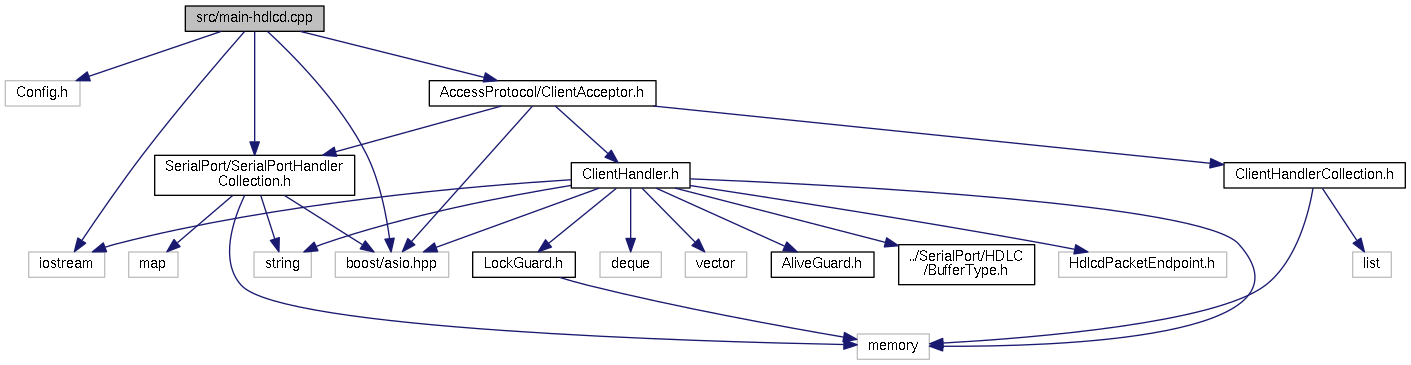
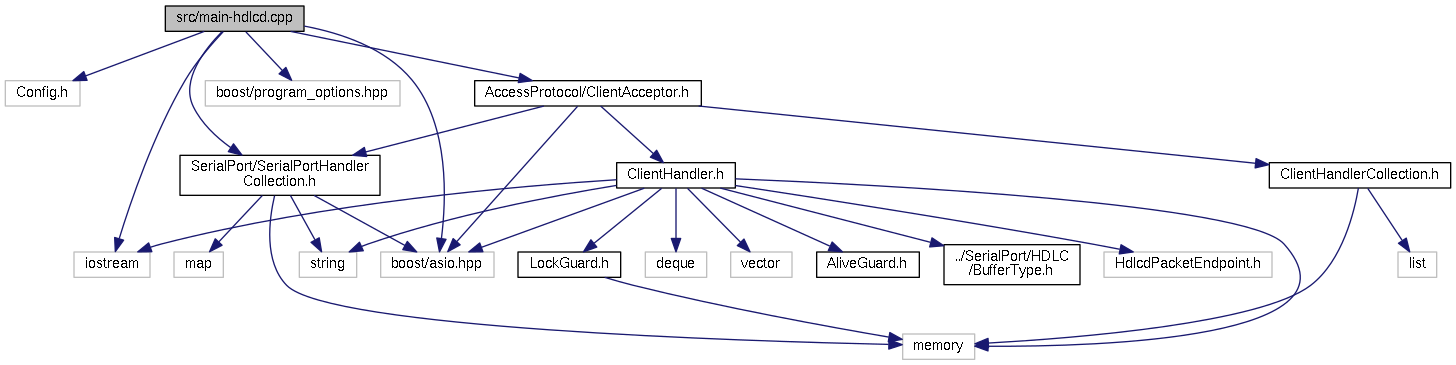
Updated doxygen output

diff --git a/main-hdlcd_8cpp_source.html b/main-hdlcd_8cpp_source.html
@@ -106,8 +106,8 @@ $(document).ready(function(){initNavTree('main-hdlcd_8cpp_source.html','');});
 <div class="title">main-hdlcd.cpp</div>  </div>
 </div><!--header-->
 <div class="contents">
-<a href="main-hdlcd_8cpp.html">Go to the documentation of this file.</a><div class="fragment"><div class="line"><a name="l00001"></a><span class="lineno">    1</span>&#160;</div><div class="line"><a name="l00022"></a><span class="lineno">   22</span>&#160;<span class="preprocessor">#include &quot;Config.h&quot;</span></div><div class="line"><a name="l00023"></a><span class="lineno">   23</span>&#160;<span class="preprocessor">#include &lt;iostream&gt;</span></div><div class="line"><a name="l00024"></a><span class="lineno">   24</span>&#160;<span class="preprocessor">#include &lt;boost/asio.hpp&gt;</span></div><div class="line"><a name="l00025"></a><span class="lineno">   25</span>&#160;<span class="preprocessor">#include &quot;<a class="code" href="SerialPortHandlerCollection_8h.html">SerialPort/SerialPortHandlerCollection.h</a>&quot;</span></div><div class="line"><a name="l00026"></a><span class="lineno">   26</span>&#160;<span class="preprocessor">#include &quot;<a class="code" href="ClientAcceptor_8h.html">AccessProtocol/ClientAcceptor.h</a>&quot;</span></div><div class="line"><a name="l00027"></a><span class="lineno">   27</span>&#160;</div><div class="line"><a name="l00028"></a><span class="lineno"><a class="line" href="main-hdlcd_8cpp.html#a3c04138a5bfe5d72780bb7e82a18e627">   28</a></span>&#160;<span class="keywordtype">int</span> <a class="code" href="main-hdlcd_8cpp.html#a3c04138a5bfe5d72780bb7e82a18e627">main</a>(<span class="keywordtype">int</span> argc, <span class="keywordtype">char</span> **argv) {</div><div class="line"><a name="l00029"></a><span class="lineno">   29</span>&#160;    std::cerr &lt;&lt; <span class="stringliteral">&quot;HDLC daemon v&quot;</span> &lt;&lt; HDLCD_VERSION_MAJOR &lt;&lt; <span class="stringliteral">&quot;.&quot;</span> &lt;&lt; HDLCD_VERSION_MINOR</div><div class="line"><a name="l00030"></a><span class="lineno">   30</span>&#160;              &lt;&lt; <span class="stringliteral">&quot; built with hdlcd-devel v&quot;</span> &lt;&lt; HDLCD_DEVEL_VERSION_MAJOR &lt;&lt; <span class="stringliteral">&quot;.&quot;</span> &lt;&lt; HDLCD_DEVEL_VERSION_MINOR &lt;&lt; std::endl;</div><div class="line"><a name="l00031"></a><span class="lineno">   31</span>&#160;    <span class="keywordflow">if</span> (argc != 2) {</div><div class="line"><a name="l00032"></a><span class="lineno">   32</span>&#160;        std::cerr &lt;&lt; <span class="stringliteral">&quot;Usage: hdlcd &lt;TCP port&gt;\n&quot;</span>;</div><div class="line"><a name="l00033"></a><span class="lineno">   33</span>&#160;        <span class="keywordflow">return</span> 1;</div><div class="line"><a name="l00034"></a><span class="lineno">   34</span>&#160;    } <span class="comment">// if</span></div><div class="line"><a name="l00035"></a><span class="lineno">   35</span>&#160;        </div><div class="line"><a name="l00036"></a><span class="lineno">   36</span>&#160;    boost::asio::io_service io_service;</div><div class="line"><a name="l00037"></a><span class="lineno">   37</span>&#160;    boost::asio::signal_set signals_(io_service);</div><div class="line"><a name="l00038"></a><span class="lineno">   38</span>&#160;    signals_.add(SIGINT);</div><div class="line"><a name="l00039"></a><span class="lineno">   39</span>&#160;    signals_.add(SIGTERM);</div><div class="line"><a name="l00040"></a><span class="lineno">   40</span>&#160;    signals_.async_wait([&amp;io_service](boost::system::error_code a_ErrorCode, <span class="keywordtype">int</span> a_SignalNumber){io_service.stop();});</div><div class="line"><a name="l00041"></a><span class="lineno">   41</span>&#160;    </div><div class="line"><a name="l00042"></a><span class="lineno">   42</span>&#160;    <span class="keyword">auto</span> l_SerialPortHandlerCollection = std::make_shared&lt;SerialPortHandlerCollection&gt;(io_service);</div><div class="line"><a name="l00043"></a><span class="lineno">   43</span>&#160;    <a class="code" href="classClientAcceptor.html">ClientAcceptor</a> l_ClientAcceptor(io_service, atoi(argv[1]), l_SerialPortHandlerCollection);</div><div class="line"><a name="l00044"></a><span class="lineno">   44</span>&#160;    io_service.run(); </div><div class="line"><a name="l00045"></a><span class="lineno">   45</span>&#160;    <span class="keywordflow">return</span> 0;</div><div class="line"><a name="l00046"></a><span class="lineno">   46</span>&#160;}</div><div class="ttc" id="SerialPortHandlerCollection_8h_html"><div class="ttname"><a href="SerialPortHandlerCollection_8h.html">SerialPortHandlerCollection.h</a></div><div class="ttdoc">The HDLC Deamon implements the HDLC protocol to easily talk to devices connected via serial communica...</div></div>
-<div class="ttc" id="main-hdlcd_8cpp_html_a3c04138a5bfe5d72780bb7e82a18e627"><div class="ttname"><a href="main-hdlcd_8cpp.html#a3c04138a5bfe5d72780bb7e82a18e627">main</a></div><div class="ttdeci">int main(int argc, char **argv)</div><div class="ttdef"><b>Definition:</b> <a href="main-hdlcd_8cpp_source.html#l00028">main-hdlcd.cpp:28</a></div></div>
+<a href="main-hdlcd_8cpp.html">Go to the documentation of this file.</a><div class="fragment"><div class="line"><a name="l00001"></a><span class="lineno">    1</span>&#160;</div><div class="line"><a name="l00022"></a><span class="lineno">   22</span>&#160;<span class="preprocessor">#include &quot;Config.h&quot;</span></div><div class="line"><a name="l00023"></a><span class="lineno">   23</span>&#160;<span class="preprocessor">#include &lt;iostream&gt;</span></div><div class="line"><a name="l00024"></a><span class="lineno">   24</span>&#160;<span class="preprocessor">#include &lt;boost/asio.hpp&gt;</span></div><div class="line"><a name="l00025"></a><span class="lineno">   25</span>&#160;<span class="preprocessor">#include &lt;boost/program_options.hpp&gt;</span></div><div class="line"><a name="l00026"></a><span class="lineno">   26</span>&#160;<span class="preprocessor">#include &quot;<a class="code" href="SerialPortHandlerCollection_8h.html">SerialPort/SerialPortHandlerCollection.h</a>&quot;</span></div><div class="line"><a name="l00027"></a><span class="lineno">   27</span>&#160;<span class="preprocessor">#include &quot;<a class="code" href="ClientAcceptor_8h.html">AccessProtocol/ClientAcceptor.h</a>&quot;</span></div><div class="line"><a name="l00028"></a><span class="lineno">   28</span>&#160;</div><div class="line"><a name="l00029"></a><span class="lineno"><a class="line" href="main-hdlcd_8cpp.html#a3c04138a5bfe5d72780bb7e82a18e627">   29</a></span>&#160;<span class="keywordtype">int</span> <a class="code" href="main-hdlcd_8cpp.html#a3c04138a5bfe5d72780bb7e82a18e627">main</a>(<span class="keywordtype">int</span> argc, <span class="keywordtype">char</span> **argv) {</div><div class="line"><a name="l00030"></a><span class="lineno">   30</span>&#160;    <span class="keywordflow">try</span> {</div><div class="line"><a name="l00031"></a><span class="lineno">   31</span>&#160;        <span class="comment">// Declare the supported options.</span></div><div class="line"><a name="l00032"></a><span class="lineno">   32</span>&#160;        boost::program_options::options_description l_Description(<span class="stringliteral">&quot;Allowed options&quot;</span>);</div><div class="line"><a name="l00033"></a><span class="lineno">   33</span>&#160;        l_Description.add_options()</div><div class="line"><a name="l00034"></a><span class="lineno">   34</span>&#160;            (<span class="stringliteral">&quot;help,h&quot;</span>,    <span class="stringliteral">&quot;produce this help message&quot;</span>)</div><div class="line"><a name="l00035"></a><span class="lineno">   35</span>&#160;            (<span class="stringliteral">&quot;version,v&quot;</span>, <span class="stringliteral">&quot;show version information&quot;</span>)</div><div class="line"><a name="l00036"></a><span class="lineno">   36</span>&#160;            (<span class="stringliteral">&quot;port,p&quot;</span>,    boost::program_options::value&lt;uint16_t&gt;(),</div><div class="line"><a name="l00037"></a><span class="lineno">   37</span>&#160;                          <span class="stringliteral">&quot;the TCP port to accept clients on&quot;</span>)</div><div class="line"><a name="l00038"></a><span class="lineno">   38</span>&#160;        ;</div><div class="line"><a name="l00039"></a><span class="lineno">   39</span>&#160;</div><div class="line"><a name="l00040"></a><span class="lineno">   40</span>&#160;        <span class="comment">// Parse the command line</span></div><div class="line"><a name="l00041"></a><span class="lineno">   41</span>&#160;        boost::program_options::variables_map l_VariablesMap;</div><div class="line"><a name="l00042"></a><span class="lineno">   42</span>&#160;        boost::program_options::store(boost::program_options::parse_command_line(argc, argv, l_Description), l_VariablesMap);</div><div class="line"><a name="l00043"></a><span class="lineno">   43</span>&#160;        boost::program_options::notify(l_VariablesMap);</div><div class="line"><a name="l00044"></a><span class="lineno">   44</span>&#160;        <span class="keywordflow">if</span> (l_VariablesMap.count(<span class="stringliteral">&quot;version&quot;</span>)) {</div><div class="line"><a name="l00045"></a><span class="lineno">   45</span>&#160;            std::cerr &lt;&lt; <span class="stringliteral">&quot;HDLC daemon version &quot;</span> &lt;&lt; HDLCD_VERSION_MAJOR &lt;&lt; <span class="stringliteral">&quot;.&quot;</span> &lt;&lt; HDLCD_VERSION_MINOR</div><div class="line"><a name="l00046"></a><span class="lineno">   46</span>&#160;                      &lt;&lt; <span class="stringliteral">&quot; built with hdlcd-devel version &quot;</span> &lt;&lt; HDLCD_DEVEL_VERSION_MAJOR &lt;&lt; <span class="stringliteral">&quot;.&quot;</span> &lt;&lt; HDLCD_DEVEL_VERSION_MINOR &lt;&lt; std::endl;</div><div class="line"><a name="l00047"></a><span class="lineno">   47</span>&#160;        } <span class="comment">// if</span></div><div class="line"><a name="l00048"></a><span class="lineno">   48</span>&#160;</div><div class="line"><a name="l00049"></a><span class="lineno">   49</span>&#160;        <span class="keywordflow">if</span> (l_VariablesMap.count(<span class="stringliteral">&quot;help&quot;</span>)) {</div><div class="line"><a name="l00050"></a><span class="lineno">   50</span>&#160;            std::cout &lt;&lt; l_Description &lt;&lt; std::endl;</div><div class="line"><a name="l00051"></a><span class="lineno">   51</span>&#160;            <span class="keywordflow">return</span> 1;</div><div class="line"><a name="l00052"></a><span class="lineno">   52</span>&#160;        } <span class="comment">// if</span></div><div class="line"><a name="l00053"></a><span class="lineno">   53</span>&#160;                        </div><div class="line"><a name="l00054"></a><span class="lineno">   54</span>&#160;        <span class="keywordflow">if</span> (!l_VariablesMap.count(<span class="stringliteral">&quot;port&quot;</span>)) {</div><div class="line"><a name="l00055"></a><span class="lineno">   55</span>&#160;            std::cout &lt;&lt; <span class="stringliteral">&quot;you have to specify the TCP listener port&quot;</span> &lt;&lt; std::endl;</div><div class="line"><a name="l00056"></a><span class="lineno">   56</span>&#160;            <span class="keywordflow">return</span> 1;</div><div class="line"><a name="l00057"></a><span class="lineno">   57</span>&#160;        } <span class="comment">// if</span></div><div class="line"><a name="l00058"></a><span class="lineno">   58</span>&#160;</div><div class="line"><a name="l00059"></a><span class="lineno">   59</span>&#160;        <span class="comment">// Install signal handlers</span></div><div class="line"><a name="l00060"></a><span class="lineno">   60</span>&#160;        boost::asio::io_service l_IoService;</div><div class="line"><a name="l00061"></a><span class="lineno">   61</span>&#160;        boost::asio::signal_set l_Signals(l_IoService);</div><div class="line"><a name="l00062"></a><span class="lineno">   62</span>&#160;        l_Signals.add(SIGINT);</div><div class="line"><a name="l00063"></a><span class="lineno">   63</span>&#160;        l_Signals.add(SIGTERM);</div><div class="line"><a name="l00064"></a><span class="lineno">   64</span>&#160;        l_Signals.async_wait([&amp;l_IoService](boost::system::error_code, <span class="keywordtype">int</span>){ l_IoService.stop(); });</div><div class="line"><a name="l00065"></a><span class="lineno">   65</span>&#160;        </div><div class="line"><a name="l00066"></a><span class="lineno">   66</span>&#160;        <span class="comment">// Create the HDLCd entity</span></div><div class="line"><a name="l00067"></a><span class="lineno">   67</span>&#160;        <span class="keyword">auto</span> l_SerialPortHandlerCollection = std::make_shared&lt;SerialPortHandlerCollection&gt;(l_IoService);</div><div class="line"><a name="l00068"></a><span class="lineno">   68</span>&#160;        <a class="code" href="classClientAcceptor.html">ClientAcceptor</a> l_ClientAcceptor(l_IoService, l_VariablesMap[<span class="stringliteral">&quot;port&quot;</span>].as&lt;uint16_t&gt;(), l_SerialPortHandlerCollection);</div><div class="line"><a name="l00069"></a><span class="lineno">   69</span>&#160;        </div><div class="line"><a name="l00070"></a><span class="lineno">   70</span>&#160;        <span class="comment">// Start event processing</span></div><div class="line"><a name="l00071"></a><span class="lineno">   71</span>&#160;        l_IoService.run();</div><div class="line"><a name="l00072"></a><span class="lineno">   72</span>&#160;    } <span class="keywordflow">catch</span> (std::exception&amp; a_Error) {</div><div class="line"><a name="l00073"></a><span class="lineno">   73</span>&#160;        std::cerr &lt;&lt; <span class="stringliteral">&quot;Exception: &quot;</span> &lt;&lt; a_Error.what() &lt;&lt; <span class="stringliteral">&quot;\n&quot;</span>;</div><div class="line"><a name="l00074"></a><span class="lineno">   74</span>&#160;        <span class="keywordflow">return</span> 1;</div><div class="line"><a name="l00075"></a><span class="lineno">   75</span>&#160;    } <span class="comment">// catch</span></div><div class="line"><a name="l00076"></a><span class="lineno">   76</span>&#160;    </div><div class="line"><a name="l00077"></a><span class="lineno">   77</span>&#160;    <span class="keywordflow">return</span> 0;</div><div class="line"><a name="l00078"></a><span class="lineno">   78</span>&#160;}</div><div class="ttc" id="SerialPortHandlerCollection_8h_html"><div class="ttname"><a href="SerialPortHandlerCollection_8h.html">SerialPortHandlerCollection.h</a></div><div class="ttdoc">The HDLC Deamon implements the HDLC protocol to easily talk to devices connected via serial communica...</div></div>
+<div class="ttc" id="main-hdlcd_8cpp_html_a3c04138a5bfe5d72780bb7e82a18e627"><div class="ttname"><a href="main-hdlcd_8cpp.html#a3c04138a5bfe5d72780bb7e82a18e627">main</a></div><div class="ttdeci">int main(int argc, char **argv)</div><div class="ttdef"><b>Definition:</b> <a href="main-hdlcd_8cpp_source.html#l00029">main-hdlcd.cpp:29</a></div></div>
 <div class="ttc" id="ClientAcceptor_8h_html"><div class="ttname"><a href="ClientAcceptor_8h.html">ClientAcceptor.h</a></div><div class="ttdoc">This file contains the header declaration of class ClientAcceptor. </div></div>
 <div class="ttc" id="classClientAcceptor_html"><div class="ttname"><a href="classClientAcceptor.html">ClientAcceptor</a></div><div class="ttdoc">Class ClientAcceptor. </div><div class="ttdef"><b>Definition:</b> <a href="ClientAcceptor_8h_source.html#l00041">ClientAcceptor.h:41</a></div></div>
 </div><!-- fragment --></div><!-- contents -->

diff --git a/main-hdlcd_8cpp.html b/main-hdlcd_8cpp.html
@@ -108,9 +108,13 @@ $(document).ready(function(){initNavTree('main-hdlcd_8cpp.html','');});
 <div class="title">main-hdlcd.cpp File Reference</div>  </div>
 </div><!--header-->
 <div class="contents">
+
+<p>The hdlc-tools implement the HDLC protocol to easily talk to devices connected via serial communications Copyright (C) 2016 Florian Evers, <a href="#" onclick="location.href='mai'+'lto:'+'flo'+'ri'+'an-'+'ev'+'ers'+'@g'+'mx.'+'de'; return false;">flori<span style="display: none;">.nosp@m.</span>an-e<span style="display: none;">.nosp@m.</span>vers@<span style="display: none;">.nosp@m.</span>gmx.<span style="display: none;">.nosp@m.</span>de</a>.  
+<a href="#details">More...</a></p>
 <div class="textblock"><code>#include &quot;Config.h&quot;</code><br />
 <code>#include &lt;iostream&gt;</code><br />
 <code>#include &lt;boost/asio.hpp&gt;</code><br />
+<code>#include &lt;boost/program_options.hpp&gt;</code><br />
 <code>#include &quot;<a class="el" href="SerialPortHandlerCollection_8h_source.html">SerialPort/SerialPortHandlerCollection.h</a>&quot;</code><br />
 <code>#include &quot;<a class="el" href="ClientAcceptor_8h_source.html">AccessProtocol/ClientAcceptor.h</a>&quot;</code><br />
 </div><div class="textblock"><div class="dynheader">
@@ -118,13 +122,13 @@ Include dependency graph for main-hdlcd.cpp:</div>
 <div class="dyncontent">
 <div class="center"><img src="main-hdlcd_8cpp__incl.png" border="0" usemap="#src_2main-hdlcd_8cpp" alt=""/></div>
 <map name="src_2main-hdlcd_8cpp" id="src_2main-hdlcd_8cpp">
-<area shape="rect" id="node5" href="SerialPortHandlerCollection_8h.html" title="The HDLC Deamon implements the HDLC protocol to easily talk to devices connected via serial communica..." alt="" coords="155,155,355,196"/>
-<area shape="rect" id="node9" href="ClientAcceptor_8h.html" title="This file contains the header declaration of class ClientAcceptor. " alt="" coords="429,80,656,107"/>
-<area shape="rect" id="node10" href="ClientHandler_8h.html" title="The HDLC Deamon implements the HDLC protocol to easily talk to devices connected via serial communica..." alt="" coords="571,162,690,189"/>
-<area shape="rect" id="node17" href="ClientHandlerCollection_8h.html" title="The HDLC Deamon implements the HDLC protocol to easily talk to devices connected via serial communica..." alt="" coords="1224,162,1405,189"/>
-<area shape="rect" id="node13" href="AliveGuard_8h.html" title="This file contains the header declaration of class AliveGuard. " alt="" coords="771,251,874,278"/>
-<area shape="rect" id="node14" href="LockGuard_8h.html" title="This file contains the header declaration of class LockGuard. " alt="" coords="473,251,575,278"/>
-<area shape="rect" id="node15" href="BufferType_8h.html" title="Copyright (c) 2016, Florian Evers, florian&#45;evers@gmx.de All rights reserved. " alt="" coords="899,244,1035,285"/>
+<area shape="rect" id="node6" href="SerialPortHandlerCollection_8h.html" title="The HDLC Deamon implements the HDLC protocol to easily talk to devices connected via serial communica..." alt="" coords="180,155,380,196"/>
+<area shape="rect" id="node10" href="ClientAcceptor_8h.html" title="This file contains the header declaration of class ClientAcceptor. " alt="" coords="475,80,701,107"/>
+<area shape="rect" id="node11" href="ClientHandler_8h.html" title="The HDLC Deamon implements the HDLC protocol to easily talk to devices connected via serial communica..." alt="" coords="617,162,735,189"/>
+<area shape="rect" id="node18" href="ClientHandlerCollection_8h.html" title="The HDLC Deamon implements the HDLC protocol to easily talk to devices connected via serial communica..." alt="" coords="1269,162,1451,189"/>
+<area shape="rect" id="node14" href="AliveGuard_8h.html" title="This file contains the header declaration of class AliveGuard. " alt="" coords="817,251,919,278"/>
+<area shape="rect" id="node15" href="LockGuard_8h.html" title="This file contains the header declaration of class LockGuard. " alt="" coords="518,251,621,278"/>
+<area shape="rect" id="node16" href="BufferType_8h.html" title="Copyright (c) 2016, Florian Evers, florian&#45;evers@gmx.de All rights reserved. " alt="" coords="944,244,1080,285"/>
 </map>
 </div>
 </div>
@@ -135,7 +139,14 @@ Functions</h2></td></tr>
 <tr class="memitem:a3c04138a5bfe5d72780bb7e82a18e627"><td class="memItemLeft" align="right" valign="top">int&#160;</td><td class="memItemRight" valign="bottom"><a class="el" href="main-hdlcd_8cpp.html#a3c04138a5bfe5d72780bb7e82a18e627">main</a> (int argc, char **argv)</td></tr>
 <tr class="separator:a3c04138a5bfe5d72780bb7e82a18e627"><td class="memSeparator" colspan="2">&#160;</td></tr>
 </table>
-<h2 class="groupheader">Function Documentation</h2>
+<a name="details" id="details"></a><h2 class="groupheader">Detailed Description</h2>
+<div class="textblock"><p>The hdlc-tools implement the HDLC protocol to easily talk to devices connected via serial communications Copyright (C) 2016 Florian Evers, <a href="#" onclick="location.href='mai'+'lto:'+'flo'+'ri'+'an-'+'ev'+'ers'+'@g'+'mx.'+'de'; return false;">flori<span style="display: none;">.nosp@m.</span>an-e<span style="display: none;">.nosp@m.</span>vers@<span style="display: none;">.nosp@m.</span>gmx.<span style="display: none;">.nosp@m.</span>de</a>. </p>
+<p>This program is free software: you can redistribute it and/or modify it under the terms of the GNU General Public License as published by the Free Software Foundation, either version 3 of the License, or (at your option) any later version.</p>
+<p>This program is distributed in the hope that it will be useful, but WITHOUT ANY WARRANTY; without even the implied warranty of MERCHANTABILITY or FITNESS FOR A PARTICULAR PURPOSE. See the GNU General Public License for more details.</p>
+<p>You should have received a copy of the GNU General Public License along with this program. If not, see <a href="http://www.gnu.org/licenses/">http://www.gnu.org/licenses/</a>. </p>
+
+<p>Definition in file <a class="el" href="main-hdlcd_8cpp_source.html">main-hdlcd.cpp</a>.</p>
+</div><h2 class="groupheader">Function Documentation</h2>
 <a class="anchor" id="a3c04138a5bfe5d72780bb7e82a18e627"></a>
 <div class="memitem">
 <div class="memproto">
@@ -160,7 +171,7 @@ Functions</h2></td></tr>
       </table>
 </div><div class="memdoc">
 
-<p>Definition at line <a class="el" href="main-hdlcd_8cpp_source.html#l00028">28</a> of file <a class="el" href="main-hdlcd_8cpp_source.html">main-hdlcd.cpp</a>.</p>
+<p>Definition at line <a class="el" href="main-hdlcd_8cpp_source.html#l00029">29</a> of file <a class="el" href="main-hdlcd_8cpp_source.html">main-hdlcd.cpp</a>.</p>
 
 </div>
 </div>

diff --git a/CMakeLists_8txt.html b/CMakeLists_8txt.html
@@ -111,9 +111,9 @@ $(document).ready(function(){initNavTree('CMakeLists_8txt.html','');});
 <table class="memberdecls">
 <tr class="heading"><td colspan="2"><h2 class="groupheader"><a name="func-members"></a>
 Functions</h2></td></tr>
-<tr class="memitem:aaac8fe0ae3468421595cef16d502c6fb"><td class="memItemLeft" align="right" valign="top">&#160;</td><td class="memItemRight" valign="bottom"><a class="el" href="CMakeLists_8txt.html#aaac8fe0ae3468421595cef16d502c6fb">set</a> (Boost_USE_STATIC_LIBS OFF) set(Boost_USE_MULTITHREADED ON) set(Boost_USE_STATIC_RUNTIME OFF) find_package(Boost REQUIRED COMPONENTS system signals) <a class="el" href="CMakeLists_8txt.html#a3b8528942589ad9f54e396a5752038cf">include_directories</a>($</td></tr>
-<tr class="separator:aaac8fe0ae3468421595cef16d502c6fb"><td class="memSeparator" colspan="2">&#160;</td></tr>
-<tr class="memitem:a3b8528942589ad9f54e396a5752038cf"><td class="memItemLeft" align="right" valign="top">&#160;</td><td class="memItemRight" valign="bottom"><a class="el" href="CMakeLists_8txt.html#a3b8528942589ad9f54e396a5752038cf">include_directories</a> (&quot;${PROJECT_SOURCE_DIR}/src/include&quot;) find_package(Threads) add_executable(hdlcd <a class="el" href="main-hdlcd_8cpp.html#a3c04138a5bfe5d72780bb7e82a18e627">main</a>-hdlcd.cpp AccessProtocol/ClientHandler.cpp AccessProtocol/ClientHandlerCollection.cpp AccessProtocol/LockGuard.cpp SerialPort/HDLC/AliveState.cpp SerialPort/HDLC/FCS16.cpp SerialPort/HDLC/Frame.cpp SerialPort/HDLC/FrameGenerator.cpp SerialPort/HDLC/FrameParser.cpp SerialPort/HDLC/ProtocolState.cpp SerialPort/SerialPortLock.cpp SerialPort/SerialPortHandler.cpp SerialPort/SerialPortHandlerCollection.cpp) if(WIN32) <a class="el" href="CMakeLists_8txt.html#aaac8fe0ae3468421595cef16d502c6fb">set</a>(ADDITIONAL_LIBRARIES wsock32 ws2_32) else() <a class="el" href="CMakeLists_8txt.html#aaac8fe0ae3468421595cef16d502c6fb">set</a>(ADDITIONAL_LIBRARIES&quot;&quot;) endif() target_link_libraries(hdlcd $</td></tr>
+<tr class="memitem:a8b4c72bb7a5537f2af053210af0557f2"><td class="memItemLeft" align="right" valign="top">&#160;</td><td class="memItemRight" valign="bottom"><a class="el" href="CMakeLists_8txt.html#a8b4c72bb7a5537f2af053210af0557f2">set</a> (Boost_USE_STATIC_LIBS OFF) set(Boost_USE_MULTITHREADED ON) set(Boost_USE_STATIC_RUNTIME OFF) find_package(Boost REQUIRED COMPONENTS system signals program_options) <a class="el" href="CMakeLists_8txt.html#a3b8528942589ad9f54e396a5752038cf">include_directories</a>($</td></tr>
+<tr class="separator:a8b4c72bb7a5537f2af053210af0557f2"><td class="memSeparator" colspan="2">&#160;</td></tr>
+<tr class="memitem:a3b8528942589ad9f54e396a5752038cf"><td class="memItemLeft" align="right" valign="top">&#160;</td><td class="memItemRight" valign="bottom"><a class="el" href="CMakeLists_8txt.html#a3b8528942589ad9f54e396a5752038cf">include_directories</a> (&quot;${PROJECT_SOURCE_DIR}/src/include&quot;) find_package(Threads) add_executable(hdlcd <a class="el" href="main-hdlcd_8cpp.html#a3c04138a5bfe5d72780bb7e82a18e627">main</a>-hdlcd.cpp AccessProtocol/ClientHandler.cpp AccessProtocol/ClientHandlerCollection.cpp AccessProtocol/LockGuard.cpp SerialPort/HDLC/AliveState.cpp SerialPort/HDLC/FCS16.cpp SerialPort/HDLC/Frame.cpp SerialPort/HDLC/FrameGenerator.cpp SerialPort/HDLC/FrameParser.cpp SerialPort/HDLC/ProtocolState.cpp SerialPort/SerialPortLock.cpp SerialPort/SerialPortHandler.cpp SerialPort/SerialPortHandlerCollection.cpp) if(WIN32) <a class="el" href="CMakeLists_8txt.html#a8b4c72bb7a5537f2af053210af0557f2">set</a>(ADDITIONAL_LIBRARIES wsock32 ws2_32) else() <a class="el" href="CMakeLists_8txt.html#a8b4c72bb7a5537f2af053210af0557f2">set</a>(ADDITIONAL_LIBRARIES&quot;&quot;) endif() target_link_libraries(hdlcd $</td></tr>
 <tr class="separator:a3b8528942589ad9f54e396a5752038cf"><td class="memSeparator" colspan="2">&#160;</td></tr>
 </table>
 <h2 class="groupheader">Function Documentation</h2>
@@ -135,7 +135,7 @@ Functions</h2></td></tr>
 
 </div>
 </div>
-<a class="anchor" id="aaac8fe0ae3468421595cef16d502c6fb"></a>
+<a class="anchor" id="a8b4c72bb7a5537f2af053210af0557f2"></a>
 <div class="memitem">
 <div class="memproto">
       <table class="memname">

diff --git a/files.html b/files.html
@@ -141,7 +141,7 @@ $(document).ready(function(){initNavTree('files.html','');});
 <tr id="row_0_1_5_" class="even"><td class="entry"><span style="width:48px;display:inline-block;">&#160;</span><a href="SerialPortHandlerCollection_8h_source.html"><span class="icondoc"></span></a><a class="el" href="SerialPortHandlerCollection_8h.html" target="_self">SerialPortHandlerCollection.h</a></td><td class="desc">The HDLC Deamon implements the HDLC protocol to easily talk to devices connected via serial communications. Copyright (C) 2016 Florian Evers, <a href="#" onclick="location.href='mai'+'lto:'+'flo'+'ri'+'an-'+'ev'+'ers'+'@g'+'mx.'+'de'; return false;">flori<span style="display: none;">.nosp@m.</span>an-e<span style="display: none;">.nosp@m.</span>vers@<span style="display: none;">.nosp@m.</span>gmx.<span style="display: none;">.nosp@m.</span>de</a> </td></tr>
 <tr id="row_0_1_6_"><td class="entry"><span style="width:48px;display:inline-block;">&#160;</span><a href="SerialPortLock_8cpp_source.html"><span class="icondoc"></span></a><a class="el" href="SerialPortLock_8cpp.html" target="_self">SerialPortLock.cpp</a></td><td class="desc">The hdlc-tools implement the HDLC protocol to easily talk to devices connected via serial communications Copyright (C) 2016 Florian Evers, <a href="#" onclick="location.href='mai'+'lto:'+'flo'+'ri'+'an-'+'ev'+'ers'+'@g'+'mx.'+'de'; return false;">flori<span style="display: none;">.nosp@m.</span>an-e<span style="display: none;">.nosp@m.</span>vers@<span style="display: none;">.nosp@m.</span>gmx.<span style="display: none;">.nosp@m.</span>de</a> </td></tr>
 <tr id="row_0_1_7_" class="even"><td class="entry"><span style="width:48px;display:inline-block;">&#160;</span><a href="SerialPortLock_8h_source.html"><span class="icondoc"></span></a><a class="el" href="SerialPortLock_8h.html" target="_self">SerialPortLock.h</a></td><td class="desc">The HDLC Deamon implements the HDLC protocol to easily talk to devices connected via serial communications. Copyright (C) 2016 Florian Evers, <a href="#" onclick="location.href='mai'+'lto:'+'flo'+'ri'+'an-'+'ev'+'ers'+'@g'+'mx.'+'de'; return false;">flori<span style="display: none;">.nosp@m.</span>an-e<span style="display: none;">.nosp@m.</span>vers@<span style="display: none;">.nosp@m.</span>gmx.<span style="display: none;">.nosp@m.</span>de</a> </td></tr>
-<tr id="row_0_2_"><td class="entry"><span style="width:32px;display:inline-block;">&#160;</span><a href="main-hdlcd_8cpp_source.html"><span class="icondoc"></span></a><a class="el" href="main-hdlcd_8cpp.html" target="_self">main-hdlcd.cpp</a></td><td class="desc"></td></tr>
+<tr id="row_0_2_"><td class="entry"><span style="width:32px;display:inline-block;">&#160;</span><a href="main-hdlcd_8cpp_source.html"><span class="icondoc"></span></a><a class="el" href="main-hdlcd_8cpp.html" target="_self">main-hdlcd.cpp</a></td><td class="desc">The hdlc-tools implement the HDLC protocol to easily talk to devices connected via serial communications Copyright (C) 2016 Florian Evers, <a href="#" onclick="location.href='mai'+'lto:'+'flo'+'ri'+'an-'+'ev'+'ers'+'@g'+'mx.'+'de'; return false;">flori<span style="display: none;">.nosp@m.</span>an-e<span style="display: none;">.nosp@m.</span>vers@<span style="display: none;">.nosp@m.</span>gmx.<span style="display: none;">.nosp@m.</span>de</a> </td></tr>
 </table>
 </div><!-- directory -->
 </div><!-- contents -->

diff --git a/SerialPortHandlerCollection_8h.html b/SerialPortHandlerCollection_8h.html
@@ -119,8 +119,6 @@ $(document).ready(function(){initNavTree('SerialPortHandlerCollection_8h.html','
 Include dependency graph for SerialPortHandlerCollection.h:</div>
 <div class="dyncontent">
 <div class="center"><img src="SerialPortHandlerCollection_8h__incl.png" border="0" usemap="#src_2SerialPort_2SerialPortHandlerCollection_8h" alt=""/></div>
-<map name="src_2SerialPort_2SerialPortHandlerCollection_8h" id="src_2SerialPort_2SerialPortHandlerCollection_8h">
-</map>
 </div>
 </div><div class="textblock"><div class="dynheader">
 This graph shows which files directly or indirectly include this file:</div>
@@ -128,7 +126,7 @@ This graph shows which files directly or indirectly include this file:</div>
 <div class="center"><img src="SerialPortHandlerCollection_8h__dep__incl.png" border="0" usemap="#src_2SerialPort_2SerialPortHandlerCollection_8hdep" alt=""/></div>
 <map name="src_2SerialPort_2SerialPortHandlerCollection_8hdep" id="src_2SerialPort_2SerialPortHandlerCollection_8hdep">
 <area shape="rect" id="node2" href="ClientAcceptor_8h.html" title="This file contains the header declaration of class ClientAcceptor. " alt="" coords="5,95,148,136"/>
-<area shape="rect" id="node3" href="main-hdlcd_8cpp.html" title="src/main&#45;hdlcd.cpp" alt="" coords="62,184,201,211"/>
+<area shape="rect" id="node3" href="main-hdlcd_8cpp.html" title="The hdlc&#45;tools implement the HDLC protocol to easily talk to devices connected via serial communicati..." alt="" coords="62,184,201,211"/>
 <area shape="rect" id="node4" href="ClientHandler_8cpp.html" title="The HDLC Deamon implements the HDLC protocol to easily talk to devices connected via serial communica..." alt="" coords="224,95,367,136"/>
 <area shape="rect" id="node5" href="SerialPortHandler_8cpp.html" title="The hdlc&#45;tools implement the HDLC protocol to easily talk to devices connected via serial communicati..." alt="" coords="391,95,565,136"/>
 <area shape="rect" id="node6" href="SerialPortHandlerCollection_8cpp.html" title="The HDLC Deamon implements the HDLC protocol to easily talk to devices connected via serial communica..." alt="" coords="589,95,762,136"/>

diff --git a/ClientHandlerCollection_8h.html b/ClientHandlerCollection_8h.html
@@ -117,8 +117,6 @@ $(document).ready(function(){initNavTree('ClientHandlerCollection_8h.html','');}
 Include dependency graph for ClientHandlerCollection.h:</div>
 <div class="dyncontent">
 <div class="center"><img src="ClientHandlerCollection_8h__incl.png" border="0" usemap="#src_2AccessProtocol_2ClientHandlerCollection_8h" alt=""/></div>
-<map name="src_2AccessProtocol_2ClientHandlerCollection_8h" id="src_2AccessProtocol_2ClientHandlerCollection_8h">
-</map>
 </div>
 </div><div class="textblock"><div class="dynheader">
 This graph shows which files directly or indirectly include this file:</div>
@@ -128,7 +126,7 @@ This graph shows which files directly or indirectly include this file:</div>
 <area shape="rect" id="node2" href="ClientAcceptor_8h.html" title="This file contains the header declaration of class ClientAcceptor. " alt="" coords="5,95,148,136"/>
 <area shape="rect" id="node4" href="ClientHandler_8cpp.html" title="The HDLC Deamon implements the HDLC protocol to easily talk to devices connected via serial communica..." alt="" coords="172,95,315,136"/>
 <area shape="rect" id="node5" href="ClientHandlerCollection_8cpp.html" title="The HDLC Deamon implements the HDLC protocol to easily talk to devices connected via serial communica..." alt="" coords="338,95,538,136"/>
-<area shape="rect" id="node3" href="main-hdlcd_8cpp.html" title="src/main&#45;hdlcd.cpp" alt="" coords="7,184,146,211"/>
+<area shape="rect" id="node3" href="main-hdlcd_8cpp.html" title="The hdlc&#45;tools implement the HDLC protocol to easily talk to devices connected via serial communicati..." alt="" coords="7,184,146,211"/>
 </map>
 </div>
 </div>

diff --git a/BufferType_8h.html b/BufferType_8h.html
@@ -123,7 +123,7 @@ This graph shows which files directly or indirectly include this file:</div>
 <area shape="rect" id="node6" href="ClientHandlerCollection_8cpp.html" title="The HDLC Deamon implements the HDLC protocol to easily talk to devices connected via serial communica..." alt="" coords="171,273,371,315"/>
 <area shape="rect" id="node7" href="SerialPortHandler_8cpp.html" title="The hdlc&#45;tools implement the HDLC protocol to easily talk to devices connected via serial communicati..." alt="" coords="562,273,735,315"/>
 <area shape="rect" id="node8" href="SerialPortHandlerCollection_8cpp.html" title="The HDLC Deamon implements the HDLC protocol to easily talk to devices connected via serial communica..." alt="" coords="759,273,933,315"/>
-<area shape="rect" id="node4" href="main-hdlcd_8cpp.html" title="src/main&#45;hdlcd.cpp" alt="" coords="7,363,146,389"/>
+<area shape="rect" id="node4" href="main-hdlcd_8cpp.html" title="The hdlc&#45;tools implement the HDLC protocol to easily talk to devices connected via serial communicati..." alt="" coords="7,363,146,389"/>
 <area shape="rect" id="node10" href="SerialPortHandler_8h.html" title="The HDLC Deamon implements the HDLC protocol to easily talk to devices connected via serial communica..." alt="" coords="734,184,907,225"/>
 <area shape="rect" id="node12" href="ProtocolState_8cpp.html" title="Copyright (c) 2016, Florian Evers, florian&#45;evers@gmx.de All rights reserved. " alt="" coords="561,184,710,225"/>
 <area shape="rect" id="node11" href="LockGuard_8cpp.html" title="This file contains the implementation of class LockGuard. " alt="" coords="957,273,1100,315"/>

diff --git a/LockGuard_8h.html b/LockGuard_8h.html
@@ -116,8 +116,6 @@ $(document).ready(function(){initNavTree('LockGuard_8h.html','');});
 Include dependency graph for LockGuard.h:</div>
 <div class="dyncontent">
 <div class="center"><img src="LockGuard_8h__incl.png" border="0" usemap="#src_2AccessProtocol_2LockGuard_8h" alt=""/></div>
-<map name="src_2AccessProtocol_2LockGuard_8h" id="src_2AccessProtocol_2LockGuard_8h">
-</map>
 </div>
 </div><div class="textblock"><div class="dynheader">
 This graph shows which files directly or indirectly include this file:</div>
@@ -131,7 +129,7 @@ This graph shows which files directly or indirectly include this file:</div>
 <area shape="rect" id="node6" href="ClientHandlerCollection_8cpp.html" title="The HDLC Deamon implements the HDLC protocol to easily talk to devices connected via serial communica..." alt="" coords="338,184,538,225"/>
 <area shape="rect" id="node7" href="SerialPortHandler_8cpp.html" title="The hdlc&#45;tools implement the HDLC protocol to easily talk to devices connected via serial communicati..." alt="" coords="562,184,735,225"/>
 <area shape="rect" id="node8" href="SerialPortHandlerCollection_8cpp.html" title="The HDLC Deamon implements the HDLC protocol to easily talk to devices connected via serial communica..." alt="" coords="759,184,933,225"/>
-<area shape="rect" id="node4" href="main-hdlcd_8cpp.html" title="src/main&#45;hdlcd.cpp" alt="" coords="7,273,146,300"/>
+<area shape="rect" id="node4" href="main-hdlcd_8cpp.html" title="The hdlc&#45;tools implement the HDLC protocol to easily talk to devices connected via serial communicati..." alt="" coords="7,273,146,300"/>
 </map>
 </div>
 </div>

diff --git a/AliveGuard_8h.html b/AliveGuard_8h.html
@@ -122,7 +122,7 @@ This graph shows which files directly or indirectly include this file:</div>
 <area shape="rect" id="node6" href="ClientHandlerCollection_8cpp.html" title="The HDLC Deamon implements the HDLC protocol to easily talk to devices connected via serial communica..." alt="" coords="338,184,538,225"/>
 <area shape="rect" id="node7" href="SerialPortHandler_8cpp.html" title="The hdlc&#45;tools implement the HDLC protocol to easily talk to devices connected via serial communicati..." alt="" coords="562,184,735,225"/>
 <area shape="rect" id="node8" href="SerialPortHandlerCollection_8cpp.html" title="The HDLC Deamon implements the HDLC protocol to easily talk to devices connected via serial communica..." alt="" coords="759,184,933,225"/>
-<area shape="rect" id="node4" href="main-hdlcd_8cpp.html" title="src/main&#45;hdlcd.cpp" alt="" coords="7,273,146,300"/>
+<area shape="rect" id="node4" href="main-hdlcd_8cpp.html" title="The hdlc&#45;tools implement the HDLC protocol to easily talk to devices connected via serial communicati..." alt="" coords="7,273,146,300"/>
 </map>
 </div>
 </div>

diff --git a/ClientHandler_8h.html b/ClientHandler_8h.html
@@ -141,7 +141,7 @@ This graph shows which files directly or indirectly include this file:</div>
 <area shape="rect" id="node5" href="ClientHandlerCollection_8cpp.html" title="The HDLC Deamon implements the HDLC protocol to easily talk to devices connected via serial communica..." alt="" coords="338,95,538,136"/>
 <area shape="rect" id="node6" href="SerialPortHandler_8cpp.html" title="The hdlc&#45;tools implement the HDLC protocol to easily talk to devices connected via serial communicati..." alt="" coords="562,95,735,136"/>
 <area shape="rect" id="node7" href="SerialPortHandlerCollection_8cpp.html" title="The HDLC Deamon implements the HDLC protocol to easily talk to devices connected via serial communica..." alt="" coords="759,95,933,136"/>
-<area shape="rect" id="node3" href="main-hdlcd_8cpp.html" title="src/main&#45;hdlcd.cpp" alt="" coords="7,184,146,211"/>
+<area shape="rect" id="node3" href="main-hdlcd_8cpp.html" title="The hdlc&#45;tools implement the HDLC protocol to easily talk to devices connected via serial communicati..." alt="" coords="7,184,146,211"/>
 </map>
 </div>
 </div>

diff --git a/dir_68267d1309a1af8e8297ef4c3efbcdba.html b/dir_68267d1309a1af8e8297ef4c3efbcdba.html
@@ -129,6 +129,7 @@ Directories</h2></td></tr>
 <tr class="heading"><td colspan="2"><h2 class="groupheader"><a name="files"></a>
 Files</h2></td></tr>
 <tr class="memitem:main-hdlcd_8cpp"><td class="memItemLeft" align="right" valign="top">file &#160;</td><td class="memItemRight" valign="bottom"><a class="el" href="main-hdlcd_8cpp.html">main-hdlcd.cpp</a> <a href="main-hdlcd_8cpp_source.html">[code]</a></td></tr>
+<tr class="memdesc:main-hdlcd_8cpp"><td class="mdescLeft">&#160;</td><td class="mdescRight">The hdlc-tools implement the HDLC protocol to easily talk to devices connected via serial communications Copyright (C) 2016 Florian Evers, <a href="#" onclick="location.href='mai'+'lto:'+'flo'+'ri'+'an-'+'ev'+'ers'+'@g'+'mx.'+'de'; return false;">flori<span style="display: none;">.nosp@m.</span>an-e<span style="display: none;">.nosp@m.</span>vers@<span style="display: none;">.nosp@m.</span>gmx.<span style="display: none;">.nosp@m.</span>de</a>. <br /></td></tr>
 <tr class="separator:"><td class="memSeparator" colspan="2">&#160;</td></tr>
 </table>
 </div><!-- contents -->

diff --git a/search/functions_f.js b/search/functions_f.js
@@ -5,7 +5,7 @@ var searchData=
   ['serialporthandler',['SerialPortHandler',['../classSerialPortHandler.html#af2973e5bb7373319fdf9222dc063b79f',1,'SerialPortHandler']]],
   ['serialporthandlercollection',['SerialPortHandlerCollection',['../classSerialPortHandlerCollection.html#a67a53c347edc33a66f3d4b70b16c93d0',1,'SerialPortHandlerCollection']]],
   ['serialportlock',['SerialPortLock',['../classSerialPortLock.html#ac0391337f2ec8e8aa4ab1f25e6ce09a2',1,'SerialPortLock']]],
-  ['set',['set',['../CMakeLists_8txt.html#aaac8fe0ae3468421595cef16d502c6fb',1,'CMakeLists.txt']]],
+  ['set',['set',['../CMakeLists_8txt.html#a8b4c72bb7a5537f2af053210af0557f2',1,'CMakeLists.txt']]],
   ['setaddress',['SetAddress',['../classFrame.html#a6be2696299c5ef388cf7207c93719956',1,'Frame']]],
   ['setchangebaudratecallback',['SetChangeBaudrateCallback',['../classAliveState.html#ae5b694007f49917f8b41f9f8b6dff955',1,'AliveState']]],
   ['sethdlcframetype',['SetHDLCFrameType',['../classFrame.html#a1315c8f7f4b3ff734d52ba9916d31f07',1,'Frame']]],
